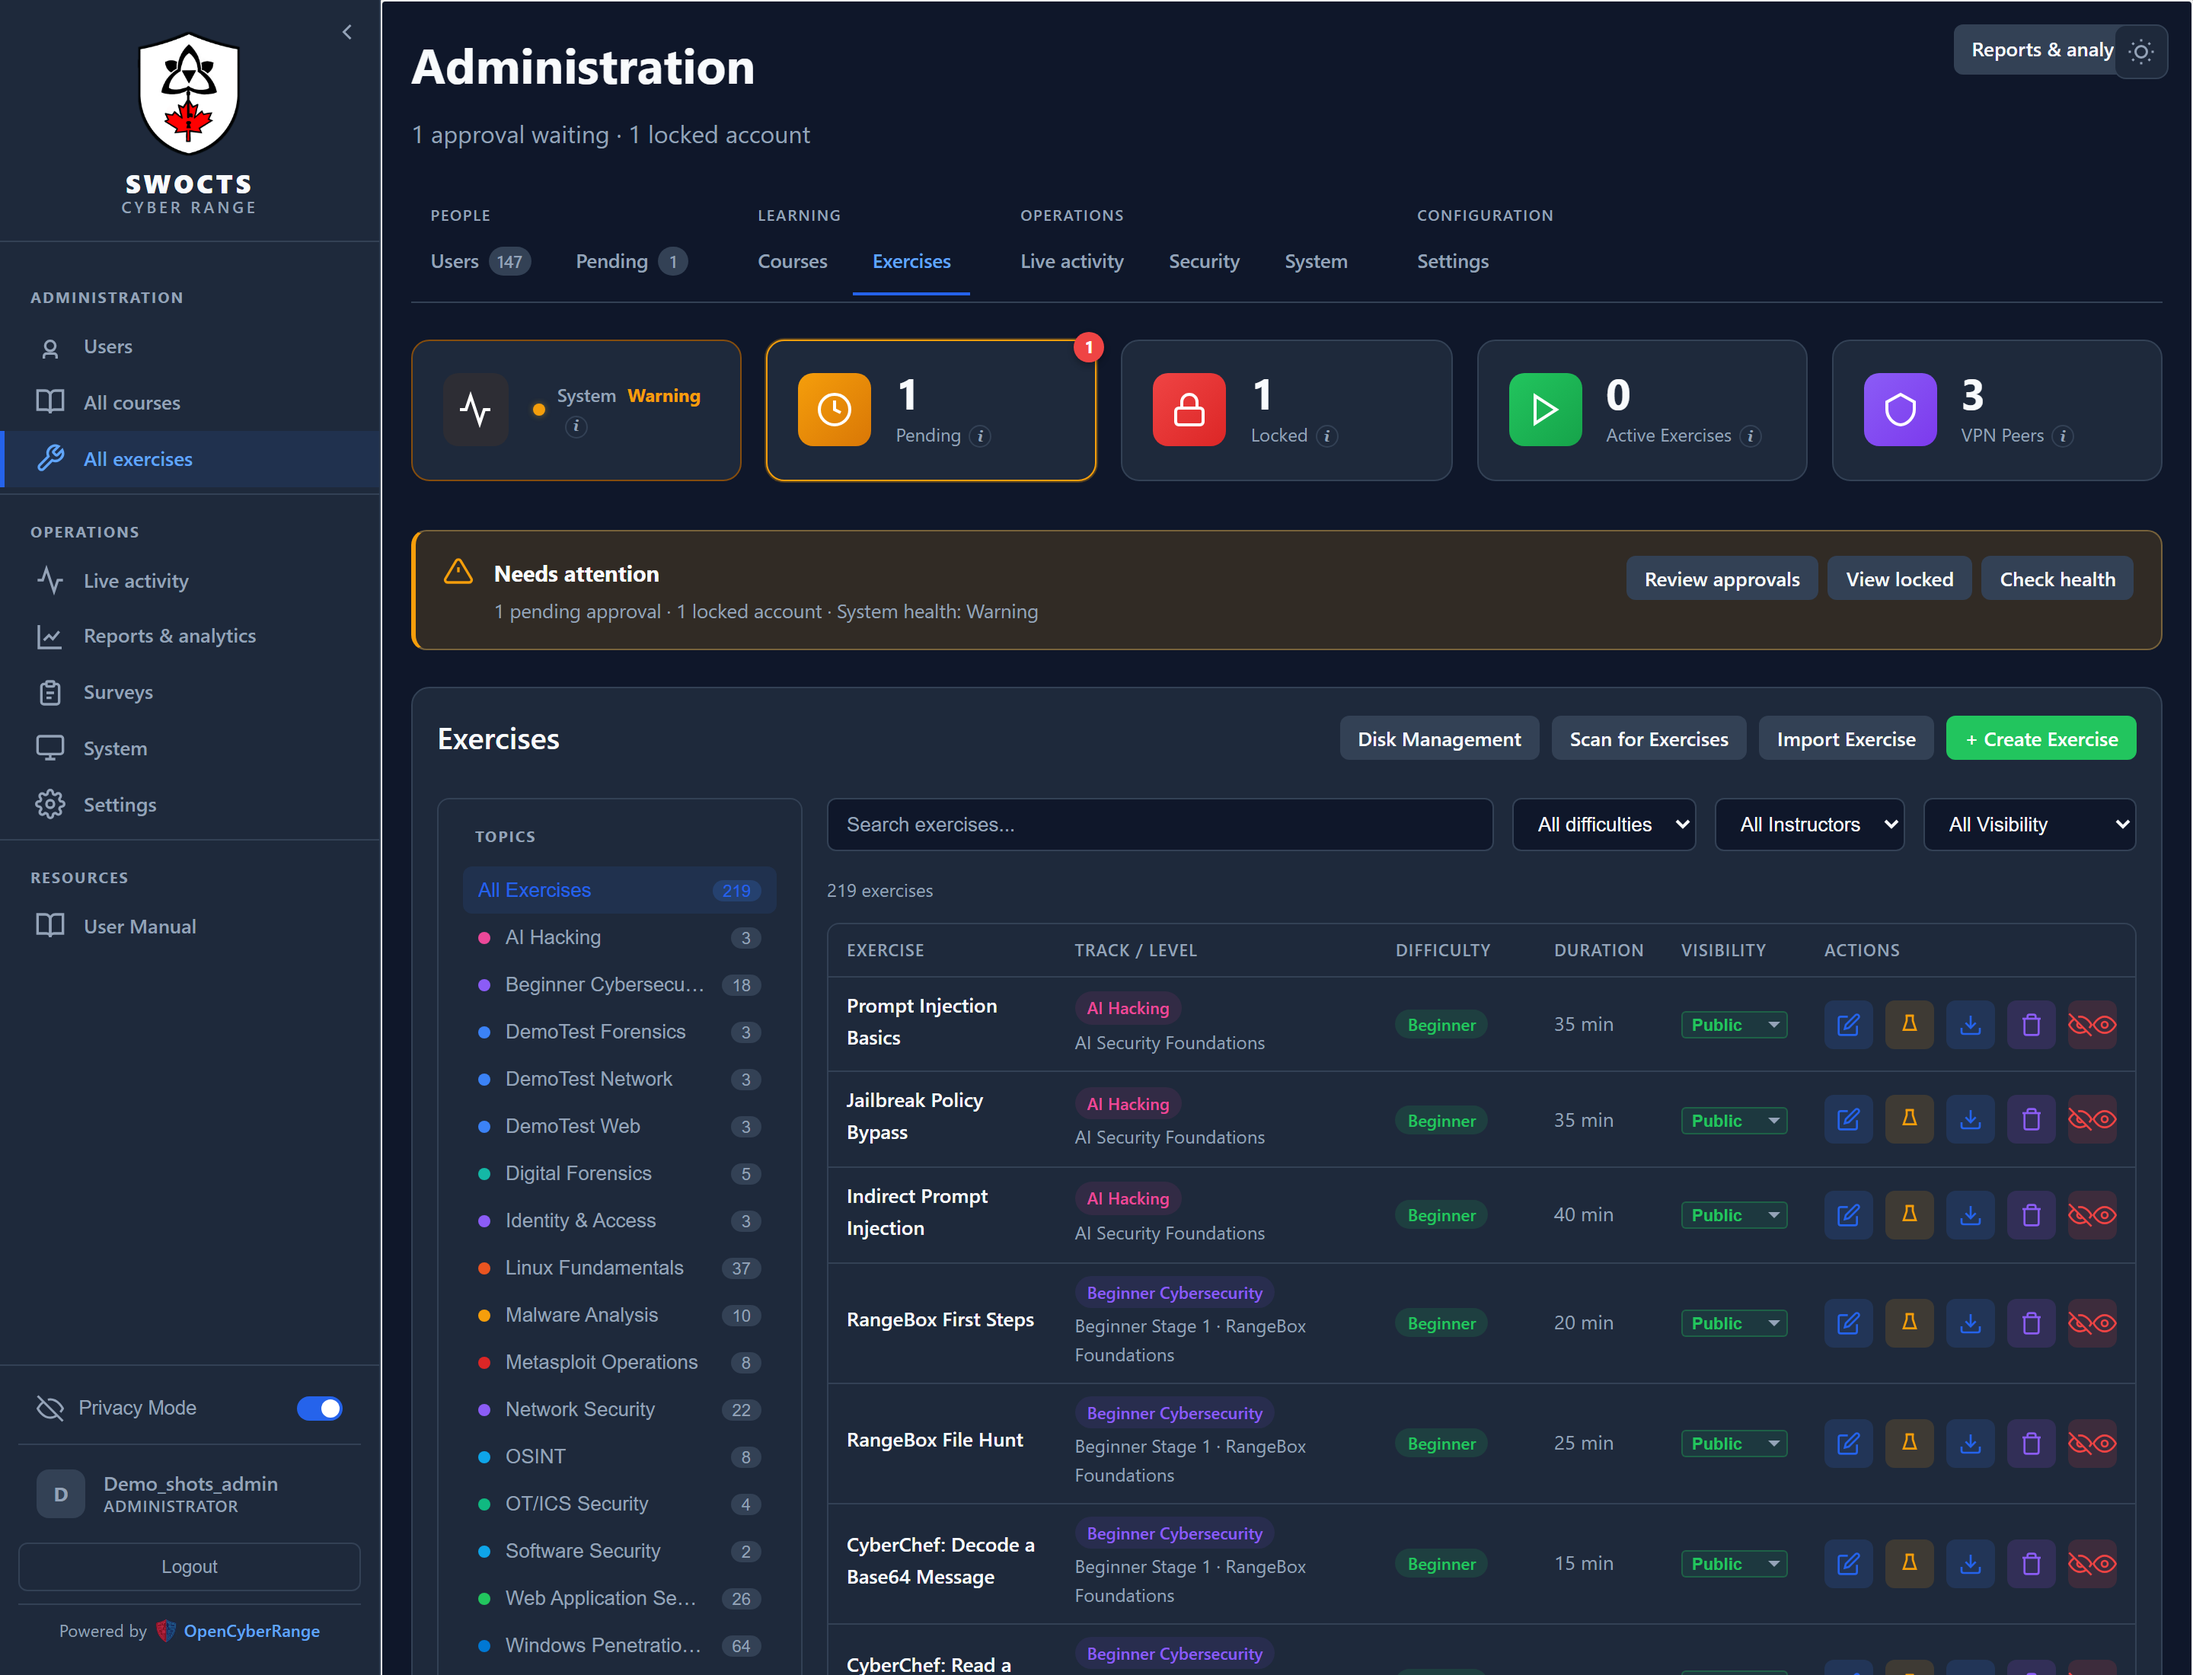
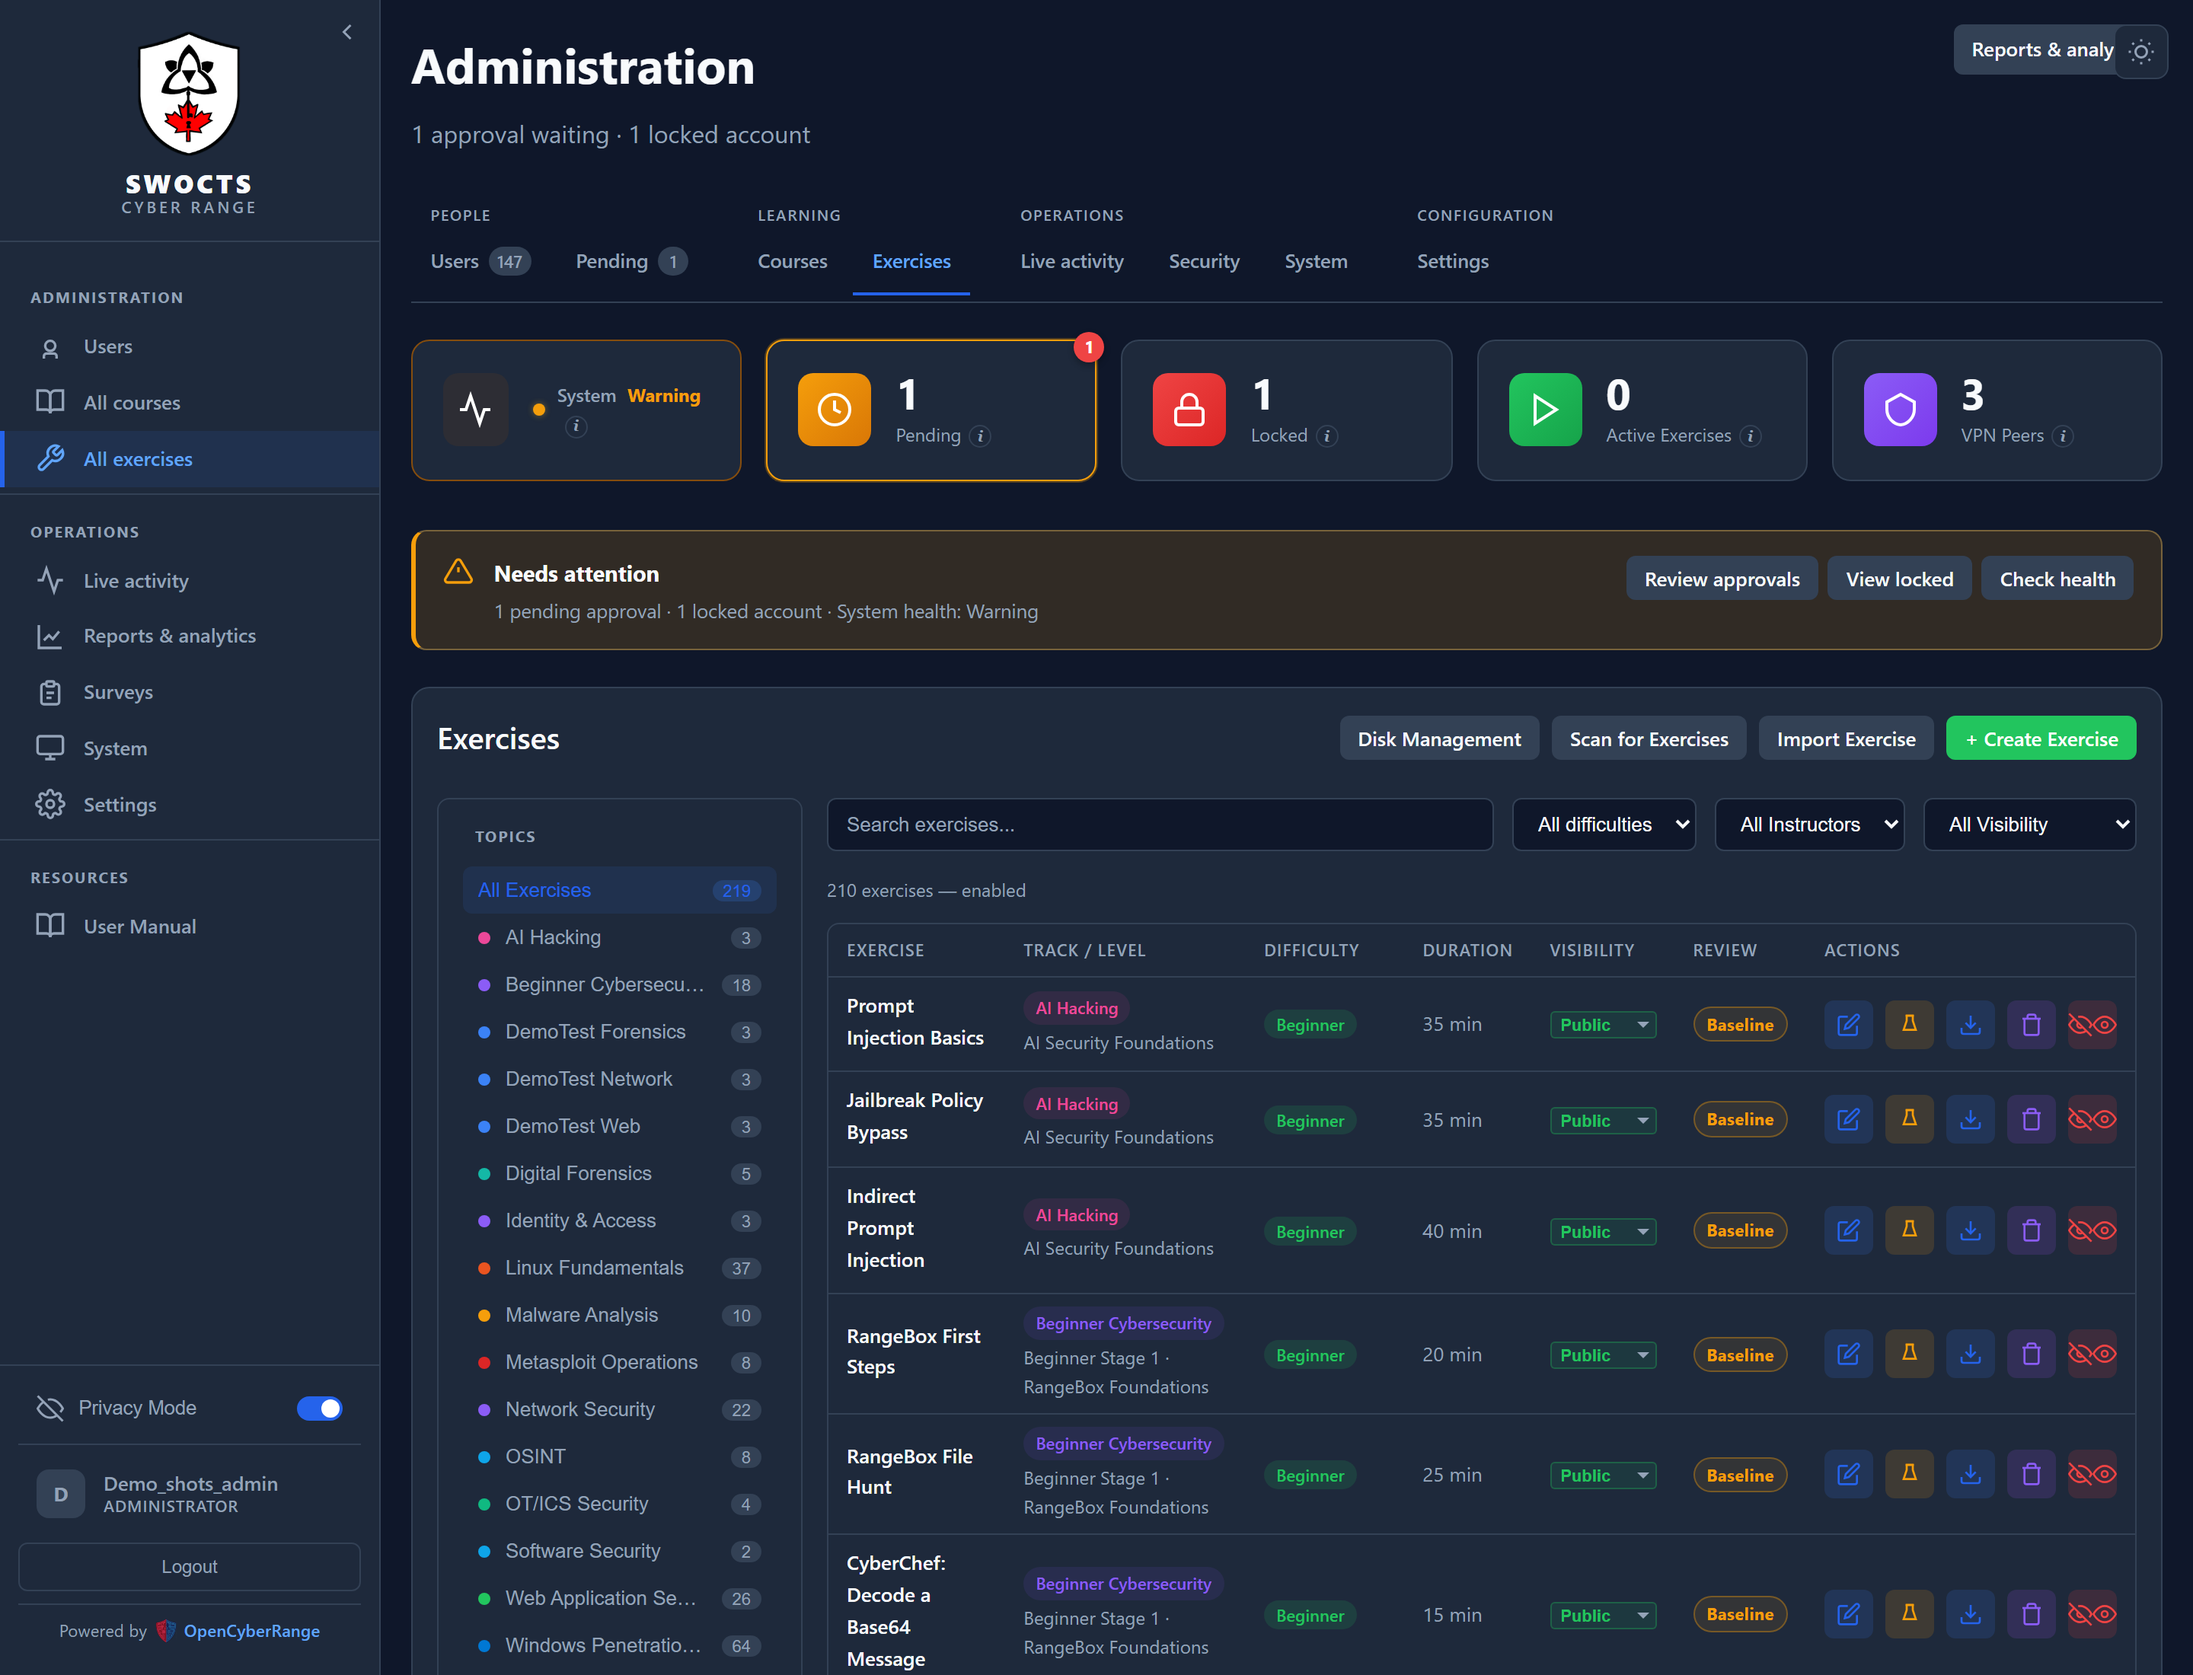
docs(manual): show the exercise Review column
Refreshes the Exercises screenshot on 5.17.7 with the Enabled filter (210 exercises) and documents the Review status badges and the tester action.

diff --git a/Manual-Lite/04_Admin_Guide/08_Managing_Labs.md b/Manual-Lite/04_Admin_Guide/08_Managing_Labs.md
@@ -19,6 +19,14 @@ The Exercises tab is where you browse, filter, and act on every lab on the platf
 <figcaption>The Exercises tab lists every exercise, with a left sidebar for topic, status, and management views.</figcaption>
 </figure>
 
+## Review status
+
+The **Review** column shows the current competency-contract state for an
+exercise: **Reviewed**, **Pathway**, **Baseline**, **Pending**, or **Unmapped**.
+Hover the badge to see the content version, review date, and whether a flag is
+recorded. This is a review-record indicator, not proof of a live harness run.
+Use the test-tube action on a row to run the exercise tester.
+
 ## Header buttons
 
 | Button | Action |
